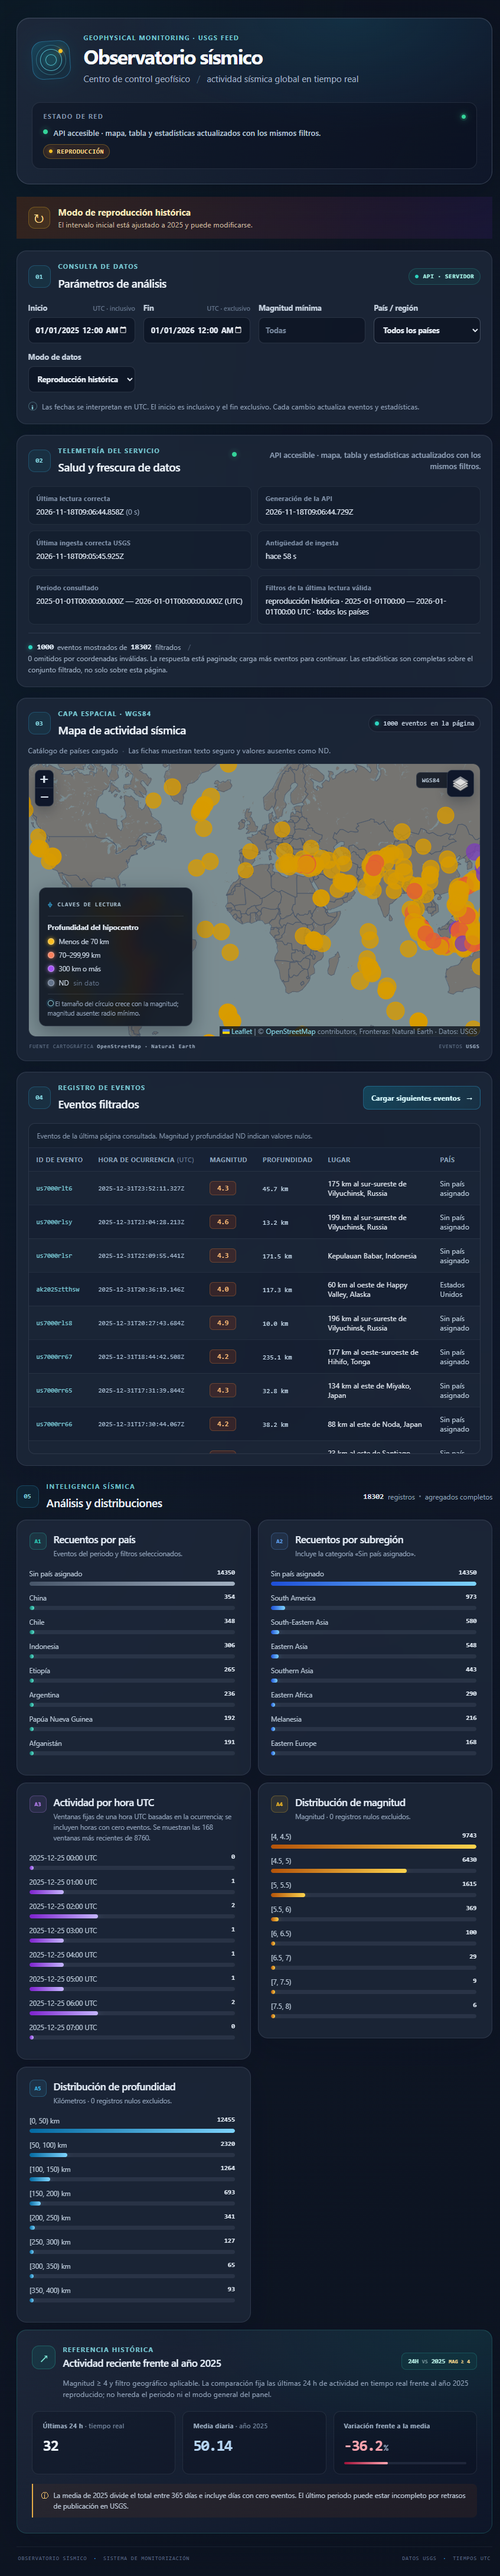
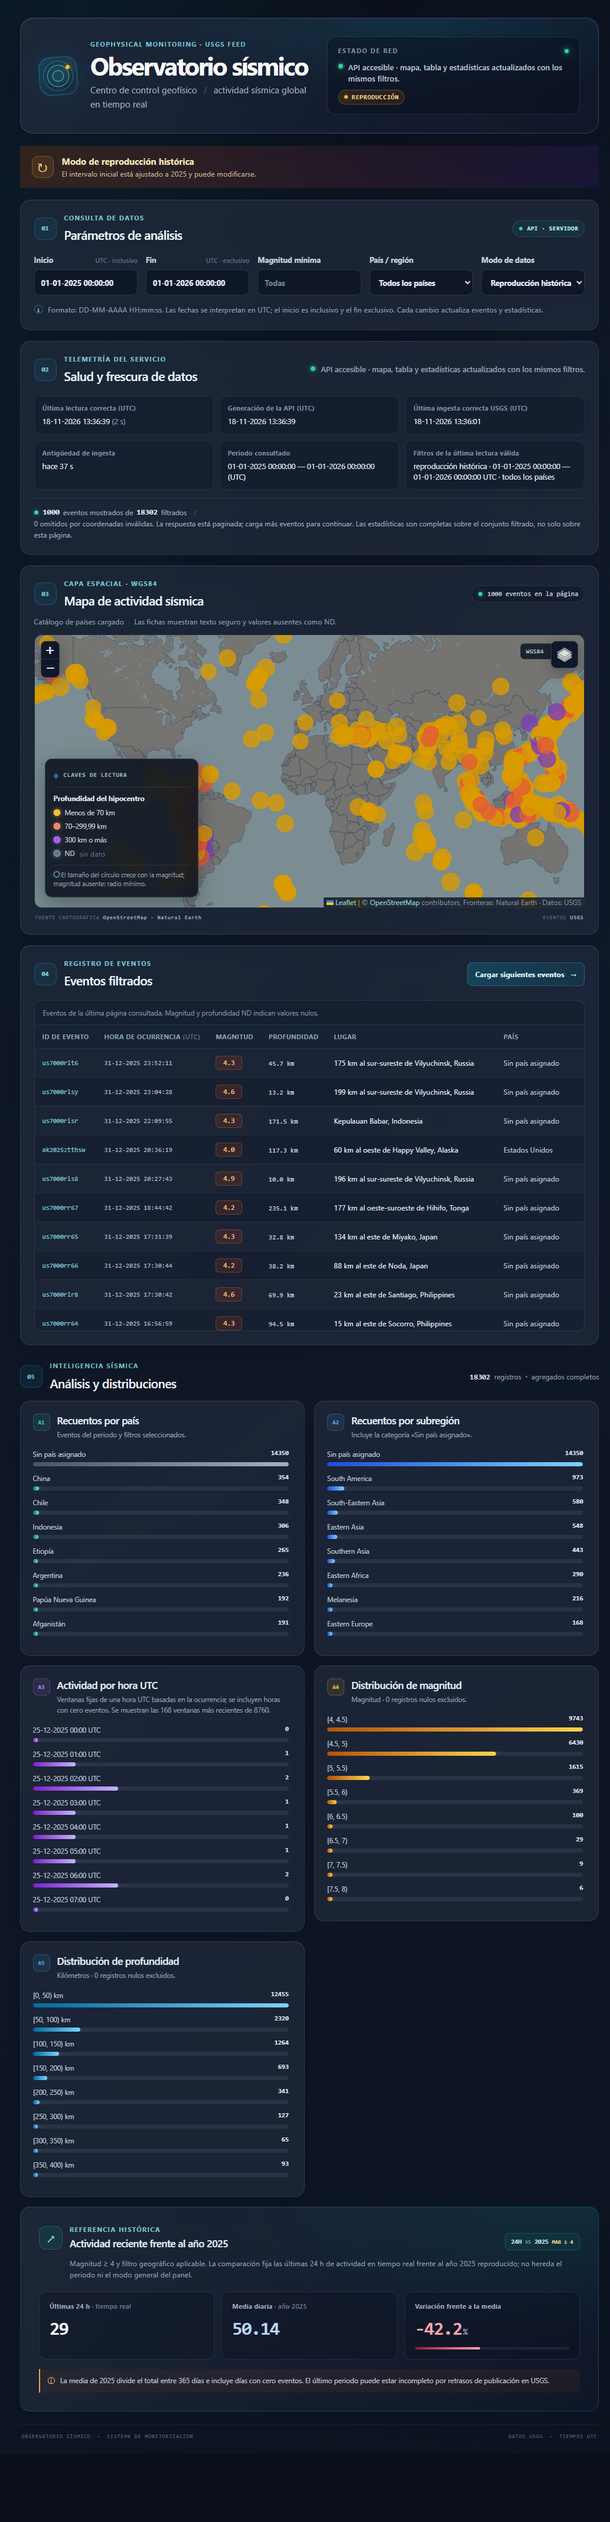
Actualizar formato de fechas en el panel

diff --git a/frontend/src/app/app.component.ts b/frontend/src/app/app.component.ts
@@ -111,8 +111,8 @@ type ApiHealth = {
 type CountryOption = { id: string; name: string };
 type HourCount = { hour: number; label: string; count: number };
 
-const REPLAY_START = '2025-01-01T00:00';
-const REPLAY_END = '2026-01-01T00:00';
+const REPLAY_START = '01-01-2025 00:00:00';
+const REPLAY_END = '01-01-2026 00:00:00';
 const HOUR_MS = 60 * 60 * 1000;
 
 @Component({
@@ -434,7 +434,7 @@ export class AppComponent implements OnDestroy {
   formatTimestamp(value: number | null | undefined): string {
     if (typeof value !== 'number' || !Number.isFinite(value)) return 'ND';
     const date = new Date(value);
-    return Number.isNaN(date.getTime()) ? 'ND' : date.toISOString();
+    return Number.isNaN(date.getTime()) ? 'ND' : this.formatUtcDateTime(date);
   }
 
   readingAge(): string {
@@ -451,12 +451,18 @@ export class AppComponent implements OnDestroy {
   formatPeriod(value: string | null): string {
     if (!value) return 'ND';
     const parsed = new Date(value);
-    return Number.isNaN(parsed.getTime()) ? value : parsed.toISOString();
+    return Number.isNaN(parsed.getTime()) ? value : this.formatUtcDateTime(parsed);
   }
 
   formatHour(timestamp: number): string {
     const date = new Date(timestamp);
-    return Number.isNaN(date.getTime()) ? 'ND' : `${date.toISOString().slice(0, 16).replace('T', ' ')} UTC`;
+    return Number.isNaN(date.getTime()) ? 'ND' : `${this.formatUtcDateTime(date).slice(0, 16)} UTC`;
+  }
+
+  private formatUtcDateTime(date: Date): string {
+    const pad = (value: number, length = 2) => String(value).padStart(length, '0');
+    return `${pad(date.getUTCDate())}-${pad(date.getUTCMonth() + 1)}-${pad(date.getUTCFullYear(), 4)} `
+      + `${pad(date.getUTCHours())}:${pad(date.getUTCMinutes())}:${pad(date.getUTCSeconds())}`;
   }
 
   ngOnDestroy(): void {
@@ -612,11 +618,33 @@ export class AppComponent implements OnDestroy {
 
   private toUtcTimestamp(value: string, label: string): { value: string | null; error: string | null } {
     if (!value.trim()) return { value: null, error: null };
-    const timestamp = Date.parse(`${value}Z`);
-    if (!Number.isFinite(timestamp)) {
+    const match = /^(\d{2})-(\d{2})-(\d{4}) (\d{2}):(\d{2}):(\d{2})$/.exec(value.trim());
+    if (!match) {
+      return { value: null, error: `La fecha/hora de ${label} debe tener el formato DD-MM-AAAA HH:mm:ss (UTC).` };
+    }
+
+    const [, dayText, monthText, yearText, hourText, minuteText, secondText] = match;
+    const day = Number(dayText);
+    const month = Number(monthText);
+    const year = Number(yearText);
+    const hour = Number(hourText);
+    const minute = Number(minuteText);
+    const second = Number(secondText);
+    if (month < 1 || month > 12 || hour > 23 || minute > 59 || second > 59) {
       return { value: null, error: `La fecha/hora de ${label} no es válida.` };
     }
-    return { value: new Date(timestamp).toISOString(), error: null };
+
+    const date = new Date(0);
+    date.setUTCFullYear(year, month - 1, day);
+    date.setUTCHours(hour, minute, second, 0);
+    if (
+      date.getUTCFullYear() !== year ||
+      date.getUTCMonth() !== month - 1 ||
+      date.getUTCDate() !== day
+    ) {
+      return { value: null, error: `La fecha/hora de ${label} no es válida.` };
+    }
+    return { value: date.toISOString(), error: null };
   }
 
   private async readJson<T>(
@@ -776,7 +804,7 @@ export class AppComponent implements OnDestroy {
     const now = Date.now();
     this.readingTimestamp.set(now);
     this.ageTick.set(now);
-    this.lastRead.set(new Date(now).toISOString());
+    this.lastRead.set(this.formatTimestamp(now));
   }
 
   private formatAge(seconds: number): string {

diff --git a/frontend/src/app/app.component.html b/frontend/src/app/app.component.html
@@ -54,11 +54,17 @@
     <div class="filter-grid">
       <label>
         <span>Inicio <small>UTC · inclusivo</small></span>
-        <input type="datetime-local" [ngModel]="filters().start" (ngModelChange)="setStart($event)" aria-describedby="period-help">
+        <input type="text" inputmode="numeric" autocomplete="off" spellcheck="false"
+          placeholder="DD-MM-AAAA HH:mm:ss" [ngModel]="filters().start"
+          [ngModelOptions]="{ updateOn: 'blur' }" (ngModelChange)="setStart($event)"
+          aria-describedby="period-help">
       </label>
       <label>
         <span>Fin <small>UTC · exclusivo</small></span>
-        <input type="datetime-local" [ngModel]="filters().end" (ngModelChange)="setEnd($event)" aria-describedby="period-help">
+        <input type="text" inputmode="numeric" autocomplete="off" spellcheck="false"
+          placeholder="DD-MM-AAAA HH:mm:ss" [ngModel]="filters().end"
+          [ngModelOptions]="{ updateOn: 'blur' }" (ngModelChange)="setEnd($event)"
+          aria-describedby="period-help">
       </label>
       <label>
         <span>Magnitud mínima</span>
@@ -82,7 +88,7 @@
         </select>
       </label>
     </div>
-    <p id="period-help" class="help-text"><span class="help-mark" aria-hidden="true">i</span> Las fechas se interpretan en UTC. El inicio es inclusivo y el fin exclusivo. Cada cambio actualiza eventos y estadísticas.</p>
+    <p id="period-help" class="help-text"><span class="help-mark" aria-hidden="true">i</span> Formato: DD-MM-AAAA HH:mm:ss. Las fechas se interpretan en UTC; el inicio es inclusivo y el fin exclusivo. Cada cambio actualiza eventos y estadísticas.</p>
   </section>
 
   <section class="system-state panel" aria-labelledby="system-title" aria-live="polite">
@@ -110,13 +116,13 @@
       <p class="alert alert-stale" role="status">
         <span aria-hidden="true">◷</span>Datos desactualizados: última ingesta correcta de USGS
         {{ lastIngestion() === null ? 'no disponible' : formatTimestamp(lastIngestion()) }}
-        ({{ ingestionAgeText() }}).
+        (UTC; {{ ingestionAgeText() }}).
       </p>
     }
     <dl class="state-grid">
-      <div><dt>Última lectura correcta</dt><dd>{{ lastRead() }} <span>({{ readingAge() }})</span></dd></div>
-      <div><dt>Generación de la API</dt><dd>{{ generated() }}</dd></div>
-      <div><dt>Última ingesta correcta USGS</dt><dd>{{ lastIngestion() === null ? 'ND' : formatTimestamp(lastIngestion()) }}</dd></div>
+      <div><dt>Última lectura correcta (UTC)</dt><dd>{{ lastRead() }} <span>({{ readingAge() }})</span></dd></div>
+      <div><dt>Generación de la API (UTC)</dt><dd>{{ generated() }}</dd></div>
+      <div><dt>Última ingesta correcta USGS (UTC)</dt><dd>{{ lastIngestion() === null ? 'ND' : formatTimestamp(lastIngestion()) }}</dd></div>
       <div><dt>Antigüedad de ingesta</dt><dd>{{ appMode() === 'demo' ? 'No disponible en la demostración' : ingestionAgeText() }}</dd></div>
       <div><dt>Periodo consultado</dt><dd>{{ period() }}</dd></div>
       <div><dt>Filtros de la última lectura válida</dt><dd>{{ appliedFilters() }}</dd></div>

diff --git a/docs/memoria.md b/docs/memoria.md
@@ -114,7 +114,7 @@ La API no publica un promedio de magnitud: informa por separado los valores nulo
 
 El 18-11-2026 a las `08:52:32Z` se midió una respuesta real del endpoint live: HTTP 200, 152.724 bytes y 85,42 ms de latencia observada para recibir el cuerpo. Es una sola observación, no una latencia media ni un SLA. USGS devolvió 214 features; 211 tenían `properties.type="earthquake"` y tres se excluyeron (dos `quarry blast`, una `explosion`). En las 214 features, `time`, `updated`, `mag`, `magType`, `type` y `place` eran no nulos, la geometría era `Point` y longitud/latitud estaban dentro de WGS84. El contrato interpreta `time` y `updated` como milisegundos Unix, magnitud como valor numérico opcional y las coordenadas como longitud, latitud y profundidad en km.
 
-La respuesta procesada contenía 211 terremotos live dentro de las 24 horas consultadas. En la captura posterior del panel, a las `09:06:05Z`, la API devolvió 212 eventos dentro de sus últimas 24 horas predeterminadas, de los que 32 tenían magnitud `>=4`. A las `09:06:45Z`, PostgreSQL contenía 2.487 eventos live actuales; 37 magnitudes negativas y 36 profundidades negativas se conservaron, sin declararlas inválidas por su signo, y 433 eventos no tenían país asignado. En el histórico equivalente de 2025, con magnitud `>=4`, había 18.302 eventos; ninguno tenía magnitud o profundidad nula y 14.350 (78,4 %) carecían de país.
+La respuesta procesada contenía 211 terremotos live dentro de las 24 horas consultadas. En la instantánea cuantitativa anterior a la actualización visual, a las `09:06:05Z`, la API devolvió 212 eventos dentro de sus últimas 24 horas predeterminadas, de los que 32 tenían magnitud `>=4`. A las `09:06:45Z`, PostgreSQL contenía 2.487 eventos live actuales; 37 magnitudes negativas y 36 profundidades negativas se conservaron, sin declararlas inválidas por su signo, y 433 eventos no tenían país asignado. En el histórico equivalente de 2025, con magnitud `>=4`, había 18.302 eventos; ninguno tenía magnitud o profundidad nula y 14.350 (78,4 %) carecían de país.
 
 **Unicidad y consistencia.** La instantánea live contenía 3.637 versiones para 2.485 identificadores, con cero claves duplicadas `(event_id, updated_ms, mode)`. Los 2.485 estados actuales coincidían con la revisión de mayor `updated_ms`. En el original de esas versiones, `time`, `updated` y `place` eran no nulos en 3.637/3.637 casos, mientras que `mag` y `magType` lo eran en 3.636/3.637; los valores opcionales nulos se conservaron. La actualidad se midió por separado del tiempo de respuesta: entre ocurrencia e ingesta, la mediana fue 11.485 s (3 h 11 min), P95 76.801 s (21 h 20 min) y máximo 86.373 s (23 h 59 min). Esto es retraso evento–ingesta observado en versiones, no latencia HTTP de USGS.
 
@@ -199,7 +199,7 @@ Validación transversal: pasaron 42 pruebas backend y el build Angular; el catá
 
 Como evidencia complementaria del 14-11-2026, la base consultada directamente tenía 1.770 eventos live, 2.542 versiones, cero colisiones de clave de versión, 110 filas en cuarentena y 1.828 checkpoints live. En esta ejecución solo estaba levantado PostgreSQL; no se reiniciaron Kafka, productor, consumidor ni API y no se repitieron las pruebas HTTP. Los resultados detallados y la limitación sobre continuidad están en [evidencias_24h.md](./evidencias_24h.md).
 
-La verificación del 18-11-2026 desplegó la tabla `consulta_usgs` sobre el volumen existente y recreó API, productor y consumidor. La auditoría registró cuatro respuestas HTTP 200 con 214–215 features cada una. Se guardaron capturas del panel live y de replay 2025 en [panel live](./evidencias/panel-live-2026-11-18.png) y [panel replay](./evidencias/panel-replay-2025-2026-11-18.png). La prueba de CORS se hizo contra el API local; no se volvió a probar un túnel ngrok real.
+La verificación del 18-11-2026 desplegó la tabla `consulta_usgs` sobre el volumen existente y recreó API, productor y consumidor. La auditoría registró cuatro respuestas HTTP 200 con 214–215 features cada una. Las capturas del panel se actualizaron a las `13:36:03Z` (live: 191 eventos) y `13:36:39Z` (replay: 18.302 resultados, 1.000 visibles) para mostrar las fechas como `DD-MM-AAAA HH:mm:ss`; los valores live son dinámicos y no sustituyen la instantánea cuantitativa anterior. Se guardaron en [panel live](./evidencias/panel-live-2026-11-18.png) y [panel replay](./evidencias/panel-replay-2025-2026-11-18.png). En la comprobación actual, la API a través del túnel ngrok y los preflight CORS de localhost y Netlify respondieron HTTP 200.
 
 El detalle de cada uno de los once escenarios, comandos y límites de la prueba de túnel está en [evidencias/aceptacion.md](./evidencias/aceptacion.md).
 

diff --git a/README.md b/README.md
@@ -106,7 +106,7 @@ Los comandos siguientes se ejecutan en PowerShell desde la raíz del repositorio
    npm start
    ```
 
-   En el uso habitual no necesitas ejecutar estos comandos: Compose sirve la versión compilada en <http://localhost:4200>. Para compilar manualmente, `npm run build` genera `frontend/dist/observatorio/browser`.
+   En el uso habitual no necesitas ejecutar estos comandos: Compose sirve la versión compilada en <http://localhost:4200>. Los campos **Inicio** y **Fin** aceptan `DD-MM-AAAA HH:mm:ss` en UTC. Para compilar manualmente, `npm run build` genera `frontend/dist/observatorio/browser`.
 
 ## API
 
@@ -159,7 +159,7 @@ npm ci
 npm run build
 ```
 
-En las evidencias del 6 de noviembre de 2026 constan 37 pruebas del servidor y 2 de infraestructura aprobadas, junto con la compilación Angular correcta. El 16 de noviembre se comprobó visualmente la versión publicada en Netlify y se levantó un túnel ngrok real: `/api/salud`, `/api/eventos` y `/api/estadisticas` respondieron HTTP 200; el preflight `OPTIONS` desde el origen Netlify también respondió 200 con CORS. En el navegador se verificaron datos live y el cambio a replay (18.302 registros del año 2025; 1.000 en la página y estadísticas completas). El 18 de noviembre pasaron 42 pruebas backend y el build Angular; también se verificaron los cinco servicios Compose, el CORS local y el registro de consultas USGS. No se publicó una nueva versión de Netlify. El panel público depende de que el túnel siga activo; si se cierra, deja de recibir datos. Los resultados detallados están en [evidencias de aceptación](./docs/evidencias/aceptacion.md) y [evidencias SQL del 18 de noviembre](./docs/evidencias_24h.md#5-verificación-tras-desplegar-la-auditoría-usgs).
+En las evidencias del 6 de noviembre de 2026 constan 37 pruebas del servidor y 2 de infraestructura aprobadas, junto con la compilación Angular correcta. El 16 de noviembre se comprobó visualmente la versión publicada en Netlify y se levantó un túnel ngrok real: `/api/salud`, `/api/eventos` y `/api/estadisticas` respondieron HTTP 200; el preflight `OPTIONS` desde el origen Netlify también respondió 200 con CORS. En el navegador se verificaron datos live y el cambio a replay (18.302 registros del año 2025; 1.000 en la página y estadísticas completas). El 18 de noviembre pasaron 42 pruebas backend y el build Angular; después se verificaron los siete servicios Compose, el acceso local, el túnel real y CORS desde localhost y Netlify. Las capturas visuales se regeneraron a las 13:36 UTC para reflejar el formato de fecha; la publicación de Netlify no se actualizó con el nuevo código de la interfaz. Su configuración ya apunta al dominio ngrok vigente. El panel público depende de que el túnel siga activo; si se cierra, deja de recibir datos. Los resultados detallados están en [evidencias de aceptación](./docs/evidencias/aceptacion.md) y [evidencias SQL del 18 de noviembre](./docs/evidencias_24h.md#5-verificación-tras-desplegar-la-auditoría-usgs).
 
 ## Evaluación según la rúbrica
 
@@ -177,7 +177,7 @@ El [enunciado oficial, §13](./ENUNCIADO.md#13-evaluación) evalúa cinco criter
 
 | **Reflexión** — reflexión excelente y propuestas | [Memoria, §5, §7 y §8](./docs/memoria.md#5-rendimiento-y-complejidad); mediciones de 100, 1.000 y 10.000 eventos; [costes, escalado y mejoras](./docs/memoria.md#complejidad-almacenamiento-y-escalado). | Comparar complejidad, tiempo y memoria; justificar el índice espacial con sus límites; separar mediciones de extrapolaciones; declarar supuestos de coste y proponer mejoras priorizadas (lotes, particiones Kafka, particionado y pruebas de recuperación). |
 
-Para la defensa, lleva las consultas y tablas de la memoria junto con las capturas del [panel live](./docs/evidencias/panel-live-2026-11-18.png) y del [panel replay 2025](./docs/evidencias/panel-replay-2025-2026-11-18.png). Las imágenes muestran el periodo, el recuento y las distribuciones comunicados en la memoria.
+Para la defensa, lleva las consultas y tablas de la memoria junto con las capturas del [panel live](./docs/evidencias/panel-live-2026-11-18.png) y del [panel replay 2025](./docs/evidencias/panel-replay-2025-2026-11-18.png). Se actualizaron el 18-11-2026 a las 13:36 UTC: live muestra 191 eventos y replay 18.302 resultados (1.000 en la página). Los datos live cambian con el tiempo; las cifras analíticas de la memoria corresponden a los cortes que allí se indican.
 
 ## Publicación del panel y acceso remoto
 

diff --git a/docs/evidencias/aceptacion.md b/docs/evidencias/aceptacion.md
@@ -69,3 +69,9 @@ La ejecución registrada de los pasos 3 y 4 utilizó la interceptación de red d
 - Se revisó visualmente la vista de escritorio. Las capturas se mostraron durante la comprobación, pero no se guardaron como archivos en el repositorio. Tampoco se modificó ni volvió a publicar Netlify.
 
 El túnel se levantó solo para esta prueba y se detuvo al terminar; debe iniciarse de nuevo para otra demostración. Si se detiene, el panel público seguirá cargando, pero no podrá consultar la API local. Esta comprobación confirma TLS, conectividad y CORS desde el origen Netlify en ese momento; no garantiza disponibilidad continua, funcionamiento desde otras redes ni revisión en todos los tamaños de pantalla.
+
+## Actualización visual del formato de fechas
+
+**Fecha:** 18 de noviembre de 2026, 13:36 UTC. La interfaz local servida desde Docker ahora muestra y acepta fechas con el formato `DD-MM-AAAA HH:mm:ss`, interpretado en UTC. Se comprobó el filtro con `18-11-2026 13:24:01` y `18-11-2026 13:25:01`; el periodo consultado se mostró en ese formato y la petición se procesó sin error. El modo replay presenta `[01-01-2025 00:00:00, 01-01-2026 00:00:00)`.
+
+Se regeneraron las capturas [live](./panel-live-2026-11-18.png) y [replay](./panel-replay-2025-2026-11-18.png): la primera muestra 191 eventos a las `13:36:03Z`; la segunda, 18.302 resultados históricos con 1.000 eventos visibles a las `13:36:39Z`. Los recuentos live cambian y son independientes de la instantánea SQL anterior. La web local respondió HTTP 200 y los preflight CORS para localhost y Netlify también respondieron HTTP 200 a través del túnel. Netlify aún no se ha vuelto a publicar con el nuevo código de interfaz.

diff --git a/docs/evidencias_24h.md b/docs/evidencias_24h.md
@@ -268,4 +268,4 @@ WHERE mode = 'replay'
 
 La API permitió el origen local exacto `http://localhost:4200` (respuesta HTTP 200 con `Access-Control-Allow-Origin: http://localhost:4200`). Un origen Netlify preview no configurado recibió HTTP 200, pero sin ese encabezado, por lo que un navegador no expone la respuesta al JavaScript de ese origen. La prueba cubre CORS de la API local, no el túnel ngrok ni el despliegue público.
 
-Las imágenes generadas con datos de la API local están en [panel live](./evidencias/panel-live-2026-11-18.png) y [panel replay 2025](./evidencias/panel-replay-2025-2026-11-18.png). El build backend terminó correctamente, `docker compose config --quiet` pasó, los cinco servicios quedaron saludables, pasaron 42 pruebas backend y `npm run build` de Angular finalizó correctamente.
+Las capturas visuales se actualizaron el 18-11-2026 para reflejar el formato de entrada y salida `DD-MM-AAAA HH:mm:ss` (UTC): [panel live](./evidencias/panel-live-2026-11-18.png), tomado a las `13:36:03Z` con 191 eventos, y [panel replay 2025](./evidencias/panel-replay-2025-2026-11-18.png), tomado a las `13:36:39Z` con 18.302 resultados y 1.000 eventos visibles en la página. El recuento live es dinámico y no sustituye las cifras SQL de la instantánea anterior de las `09:06Z`. El frontend compiló y se sirvió desde Docker; los siete servicios Compose estaban en ejecución, `/api/salud` respondió HTTP 200 a través del túnel ngrok y los preflight CORS de localhost y Netlify devolvieron HTTP 200.
